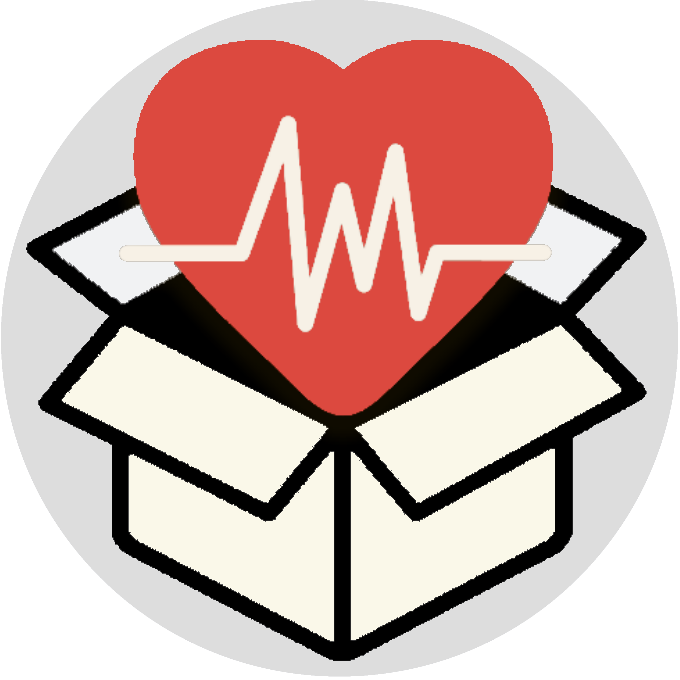
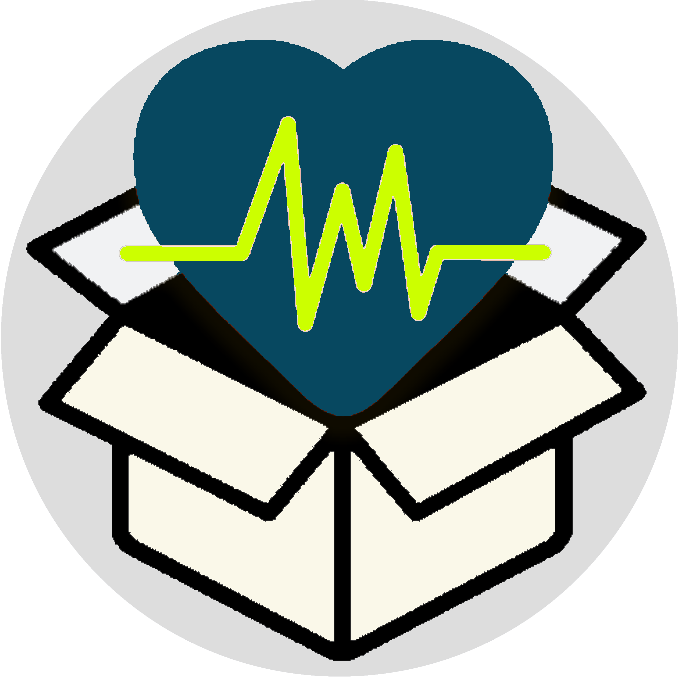
up

Changed region(s): [[0.1853, 0.0618, 0.8338, 0.6176]]

diff --git a/ibhre/ampEP.html b/ibhre/ampEP.html
@@ -63,7 +63,7 @@
 .main {font-size: 2vmax;padding: 1vmax;color: white;}
 .main h4 {padding: 1vmax;border: none;background-color: transparent;}
 
-amp-accordion {margin-left: auto;margin-right: auto;text-align: center;}
+amp-accordion {margin-left: auto;margin-right: auto;text-align: center;width: fit-content;padding: 5vh 0;}
 amp-accordion section[expanded] .showMore {display: none;}
 amp-accordion section:not([expanded]) .showLess {display: none;}
 
@@ -228,15 +228,16 @@ color: black;text-align: center;padding: 1vmax;">
  </div>
 <!--content-->
  <amp-accordion animate expand-single-section>
-    <!--basic EP-->
+    <!--Action Potential-->
     <section class="main aqua">
       <h4>
         <span class="showMore"><i class="fas fa-chevron-circle-down"></i>&nbsp; </span>
         <span class="showLess"><i class="fas fa-chevron-circle-up"></i>&nbsp; </span>
-        Basic Science
+        The Action Potential
       </h4>
       <amp-carousel class="collapsible-captions" height="50vw" width="88vw" layout="fixed" type="slides" 
       style="margin-left: auto;margin-right: auto;">
+        <!--AP of non-PPM-->
         <figure>
           <amp-img layout="fill" src="media\AAD.png"></amp-img>
          <figcaption on="tap:AMP.setState({expanded: !expanded})" tabindex="0" role="button" [class]="expanded ? 'expanded' : ''">
@@ -244,28 +245,58 @@ color: black;text-align: center;padding: 1vmax;">
             <span [text]="expanded ? '▼' : '▲'">▲</span>
           </figcaption>
         </figure>
+        
+        <!--Channels for each phase-->
         <figure>
           <amp-img layout="fill" src="https://unsplash.it/500/500"></amp-img>
          <figcaption on="tap:AMP.setState({expanded: !expanded})" tabindex="0" role="button" [class]="expanded ? 'expanded' : ''">Lorem ipsum dolor sit amet, consectetuer adipiscing elit. Nulla consequat massa quis enim. Donec pede justo, fringilla vel, aliquet nec, vulputate eget, arcu.
             <span [text]="expanded ? '▼' : '▲'">▲</span></figcaption>
         </figure>
+        
+        <!--AP comparisons: figures-->
         <figure>
           <amp-img layout="fill" src="https://unsplash.it/200/500"></amp-img>
           <figcaption on="tap:AMP.setState({expanded: !expanded})" tabindex="0" role="button" [class]="expanded ? 'expanded' : ''">Lorem ipsum dolor sit amet, consectetuer adipiscing elit. Aenean commodo ligula eget dolor. Aenean massa. Cum sociis natoque penatibus et magnis dis parturient montes, nascetur ridiculus mus. Donec quam felis, ultricies nec, pellentesque eu, pretium quis, sem. Lorem ipsum dolor sit amet, consectetuer adipiscing elit. Aenean commodo ligula eget dolor. Aenean massa. Cum sociis natoque penatibus et magnis dis parturient montes, nascetur ridiculus mus. Donec quam felis, ultricies nec, pellentesque eu, pretium quis, sem. Nulla consequat massa quis enim. Donec pede justo, fringilla vel, aliquet nec, vulputate eget, arcu.
             <span [text]="expanded ? '▼' : '▲'">▲</span></figcaption>
         </figure>
+
+        <!--AP comparisons table-->
+        <figure>
+          <amp-img layout="fill" src="https://unsplash.it/200/500"></amp-img>
+          <figcaption on="tap:AMP.setState({expanded: !expanded})" tabindex="0" role="button" [class]="expanded ? 'expanded' : ''">Lorem ipsum dolor sit amet, consectetuer adipiscing elit. Aenean commodo ligula eget dolor. Aenean massa. Cum sociis natoque penatibus et magnis dis parturient montes, nascetur ridiculus mus. Donec quam felis, ultricies nec, pellentesque eu, pretium quis, sem. Lorem ipsum dolor sit amet, consectetuer adipiscing elit. Aenean commodo ligula eget dolor. Aenean massa. Cum sociis natoque penatibus et magnis dis parturient montes, nascetur ridiculus mus. Donec quam felis, ultricies nec, pellentesque eu, pretium quis, sem. Nulla consequat massa quis enim. Donec pede justo, fringilla vel, aliquet nec, vulputate eget, arcu.
+            <span [text]="expanded ? '▼' : '▲'">▲</span></figcaption>
+        </figure>
+
+        <!--Refractory period-->
+        <figure>
+          <amp-img layout="fill" src="https://unsplash.it/200/500"></amp-img>
+          <figcaption on="tap:AMP.setState({expanded: !expanded})" tabindex="0" role="button" [class]="expanded ? 'expanded' : ''">Lorem ipsum dolor sit amet, consectetuer adipiscing elit. Aenean commodo ligula eget dolor. Aenean massa. Cum sociis natoque penatibus et magnis dis parturient montes, nascetur ridiculus mus. Donec quam felis, ultricies nec, pellentesque eu, pretium quis, sem. Lorem ipsum dolor sit amet, consectetuer adipiscing elit. Aenean commodo ligula eget dolor. Aenean massa. Cum sociis natoque penatibus et magnis dis parturient montes, nascetur ridiculus mus. Donec quam felis, ultricies nec, pellentesque eu, pretium quis, sem. Nulla consequat massa quis enim. Donec pede justo, fringilla vel, aliquet nec, vulputate eget, arcu.
+            <span [text]="expanded ? '▼' : '▲'">▲</span></figcaption>
+        </figure>
+
       </amp-carousel>
     </section>
 
-    <!--AA-->
+    <!--Mech of Arrhythmias-->
     <section class="main red">
       <h4>
         <span class="showMore"><i class="fas fa-chevron-circle-down"></i>&nbsp; </span>
         <span class="showLess"><i class="fas fa-chevron-circle-up"></i>&nbsp; </span>  
-      Antiarrhythmic Agents</h4>
+      Mechanisms of Arrhythmias</h4>
       <div>Bunch of even more awesome content. This time in a <code><div></code>.</div>
     </section>
-    <!--QA-->
+    <!--AAs-->
+    <section class="main grey">
+      <h4>
+        <span class="showMore"><i class="fas fa-chevron-circle-down"></i>&nbsp; </span>
+        <span class="showLess"><i class="fas fa-chevron-circle-up"></i>&nbsp; </span>
+        Antiarrhythmic Agents</h4>
+      <figure>
+        <amp-img src="/static/samples/img/clean-1.jpg" layout="responsive" width="400" height="710"></amp-img>
+        <figcaption>Images work as well.</figcaption>
+      </figure>
+    </section>
+    <!--QAs-->
     <section class="main grey">
       <h4>
         <span class="showMore"><i class="fas fa-chevron-circle-down"></i>&nbsp; </span>

diff --git a/ibhre/ampIndex.html b/ibhre/ampIndex.html
@@ -18,10 +18,12 @@
 }
 
 /*color*/
-.aqua {color: rgb(1, 166, 186);}
-.red {color: rgb(220, 73, 63);}
-.grey {background-color: rgb(170, 171, 177);}
-.creme {background-color: rgb(250, 248, 233);}
+.darkCyan {background-color: #074860;color: #f1f1f1;}
+.cyan1 {background-color: #1b5b56;color: #f1f1f1;}
+.cyan2 {background-color: #11515b;}
+.lime {color: #ccff00;}
+.nearBlack {background-color: #232323;color: #f1f1f1;}
+.lightBlue {background-color: #B6c2c8;}
 
 /*top*/
 .navItem {
@@ -30,14 +32,13 @@
 }
 .navItem:hover {background-color: rgb(82, 82, 82);color: #f2f2f2;}
 .topBar {
-    font-size: 2vmax;padding: 0.5vmax;
-    background-color: rgb(250, 248, 233);position: sticky;top: 0;z-index: 1;
+    font-size: 2vmax;padding: 0.5vmax;color: #f1f1f1;
+    background-color: #074860;position: sticky;top: 0;z-index: 1;
     border-bottom-left-radius: 1vmax;border-bottom-right-radius: 1vmax;   
     box-shadow: 0 1px 1px 0 rgba(0,0,0,.14), 0 1px 1px -1px rgba(0,0,0,.14), 0 1px 5px 0 rgba(0,0,0,.12);
 }
 .sectionTitle {
-    font-size: 3vmax;padding: 1vmax;margin: 4vmax 0;
-    border-left: rgb(82, 82, 82) 1vmax solid;border-top: none;border-bottom: none;
+    font-size: 4vmax;padding: 3vmax;text-align: center;font-weight: 900;
 }
 
 .mobileOnly {display: none;}
@@ -49,7 +50,7 @@
 .tab {
   margin: 0 1.5vmax;cursor: pointer;
 }
-.tab a {text-decoration: none;color: rgb(82, 82, 82);}
+.tab a {text-decoration: none;color: #f1f1f1;}
 
 /*flexbox */
 .row800 {display: flex;}
@@ -74,12 +75,12 @@
 <style amp-boilerplate>body{-webkit-animation:-amp-start 8s steps(1,end) 0s 1 normal both;-moz-animation:-amp-start 8s steps(1,end) 0s 1 normal both;-ms-animation:-amp-start 8s steps(1,end) 0s 1 normal both;animation:-amp-start 8s steps(1,end) 0s 1 normal both}@-webkit-keyframes -amp-start{from{visibility:hidden}to{visibility:visible}}@-moz-keyframes -amp-start{from{visibility:hidden}to{visibility:visible}}@-ms-keyframes -amp-start{from{visibility:hidden}to{visibility:visible}}@-o-keyframes -amp-start{from{visibility:hidden}to{visibility:visible}}@keyframes -amp-start{from{visibility:hidden}to{visibility:visible}}</style><noscript><style amp-boilerplate>body{-webkit-animation:none;-moz-animation:none;-ms-animation:none;animation:none}</style></noscript>
 </head>
 
-<body style="font-family: 'Oxygen', sans-serif;color: rgb(82, 82, 82);background-color: rgb(250, 248, 233);">
+<body style="font-family: 'Oxygen', sans-serif;color: rgb(82, 82, 82);">
 
 <amp-sidebar id="sidebar" layout="nodisplay" side="left" class="creme">
     <div style="text-align: left;padding: 0.5vmax;">
     <button on="tap:sidebar.close" style="border: none;">
-        <i class="fas fa-times-circle" style="font-size: 2vmax;color: rgb(220, 73, 63);border:none"></i>
+        <i class="fas fa-times-circle" style="font-size: 2vmax;color: rgb(27, 91,86);border:none"></i>
     </button>
     </div>
     <ul style="list-style: none;margin: 0;padding: 0;">
@@ -97,14 +98,14 @@
 
 <!--large screen only --menu-->
 <div class="topBar row800" style="font-size: 1.8vmax;">
-  <button on="tap:sidebar.open" style="border: none;cursor: pointer;" class="creme">
-    <i class="fas fa-bars" style="font-size: 1.8vmax;color: rgb(220, 73, 63);"></i></button>
+  <button on="tap:sidebar.open" class="darkCyan" style="border: none;cursor: pointer;">
+    <i class="fas fa-bars" style="font-size: 1.8vmax;color: #ccff00;"></i></button>
   <span style="top: 0.5vmax;right: 1vmax;position: absolute;">
     <a href="https://heartrhythmbox.com">
     <amp-img src="box_grey.png" width="30" height="30" layout="fixed">
         </amp-img></a>
   </span>
-  <div class="tab" style="border-bottom:rgb(220, 73, 63) solid 0.2vmax">
+  <div class="tab" style="border-bottom:#ccff00 solid 0.2vmax">
     IBHRE Tutorials
   </div>
   <div class="tab">
@@ -120,8 +121,8 @@
 
 <!--mobile menu-->
 <div class="topBar mobileOnly" style="width: 100%;">
-  <button on="tap:sidebar.open" style="border: none;cursor: pointer;" class="creme">
-  <i class="fas fa-bars" style="font-size: 2vmax;color: rgb(220, 73, 63);"></i></button>
+  <button on="tap:sidebar.open" style="border: none;cursor: pointer;" class="darkCyan lime">
+  <i class="fas fa-bars" style="font-size: 2vmax;"></i></button>
   <span style="top: 0.5vmax;right: 1vmax;position: absolute;">
     <a href="https://heartrhythmbox.com">
     <amp-img src="box_grey.png" width="20" height="20" layout="fixed">
@@ -130,18 +131,16 @@
 </div>
 
 <!--landing area-->
-<div class="creme" 
-style="font-size: 3.2vmax;letter-spacing: 0.5vmax;font-weight: 900;
-color: black;text-align: center;padding: 1vmax;">
+<div style="font-size: 3.2vmax;letter-spacing: 0.5vmax;font-weight: 900;text-align: center;padding: 1vmax;">
   IBHRE TUTORIALS 
  </div>
- <div style="background-color: #f1f1f1;padding-top: 5vw;">
- <div style="max-width: fit-content;margin-right: auto;margin-left: auto;padding-bottom: 10vw;">
-  <div class="sectionTitle" style="border-left-color: rgb(1, 166, 186);">
+ <div class="lightBlue" style="padding-top: 5vw;">
+ <div style="padding-bottom: 10vw;margin: 1vmax;margin-bottom: 0;">
+  <div class="sectionTitle darkCyan lime">
       Fundamental of EP</div>
-  <div class="sectionTitle" style="border-left-color: rgb(170, 171, 177)">
+  <div class="sectionTitle cyan2" style="color: #f1f1f1;">
     ECGs</div>
-  <div class="sectionTitle" style="border-left-color: rgb(220, 73, 63);margin-bottom: 0;">
+  <div class="sectionTitle cyan1 lime">
     Clinical Practice</div>
   </div>
 </div>
